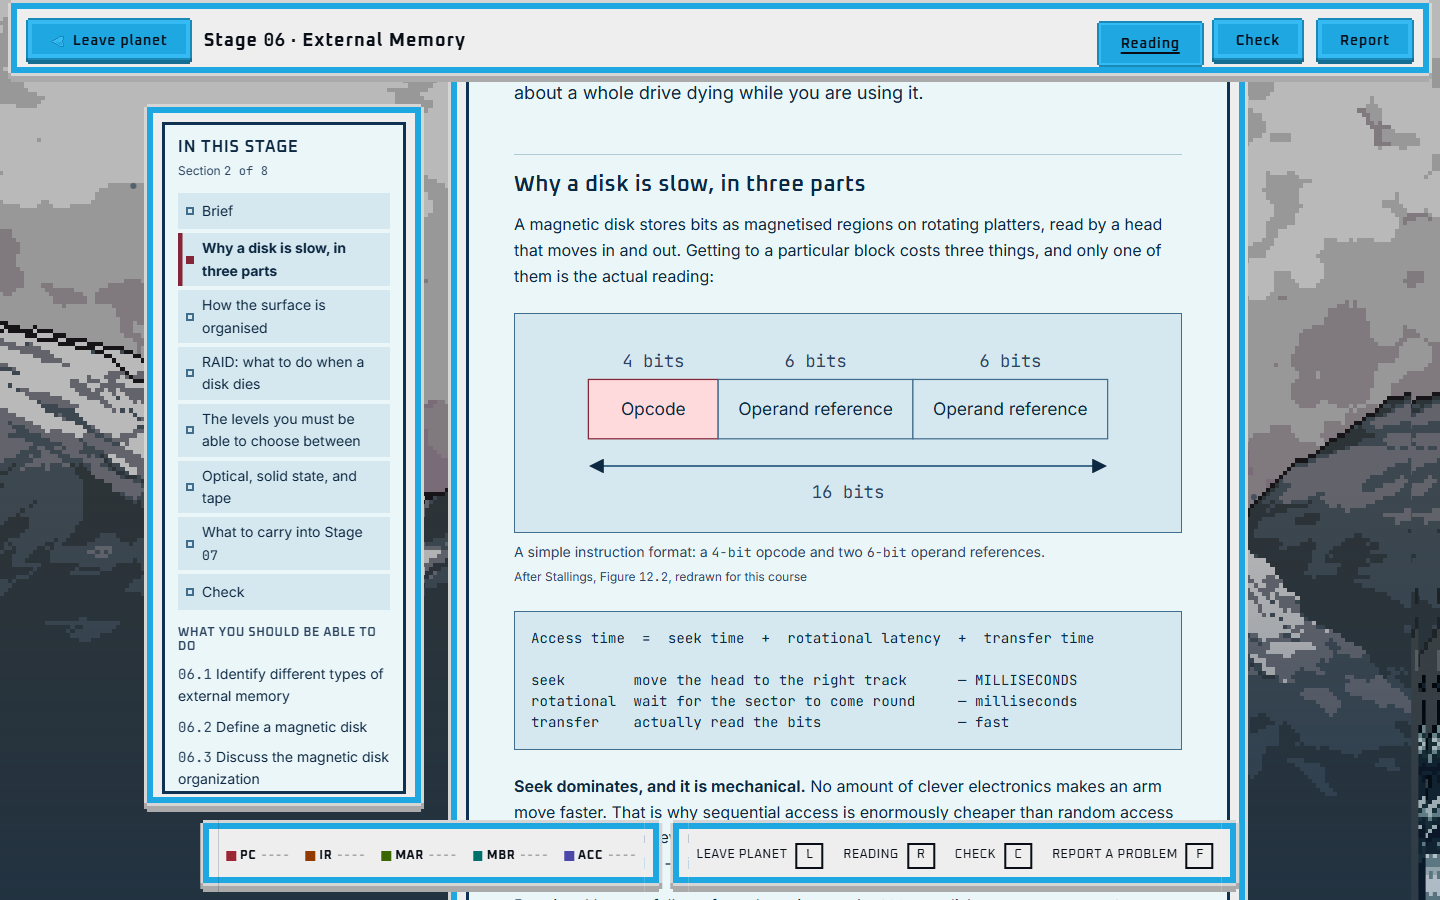
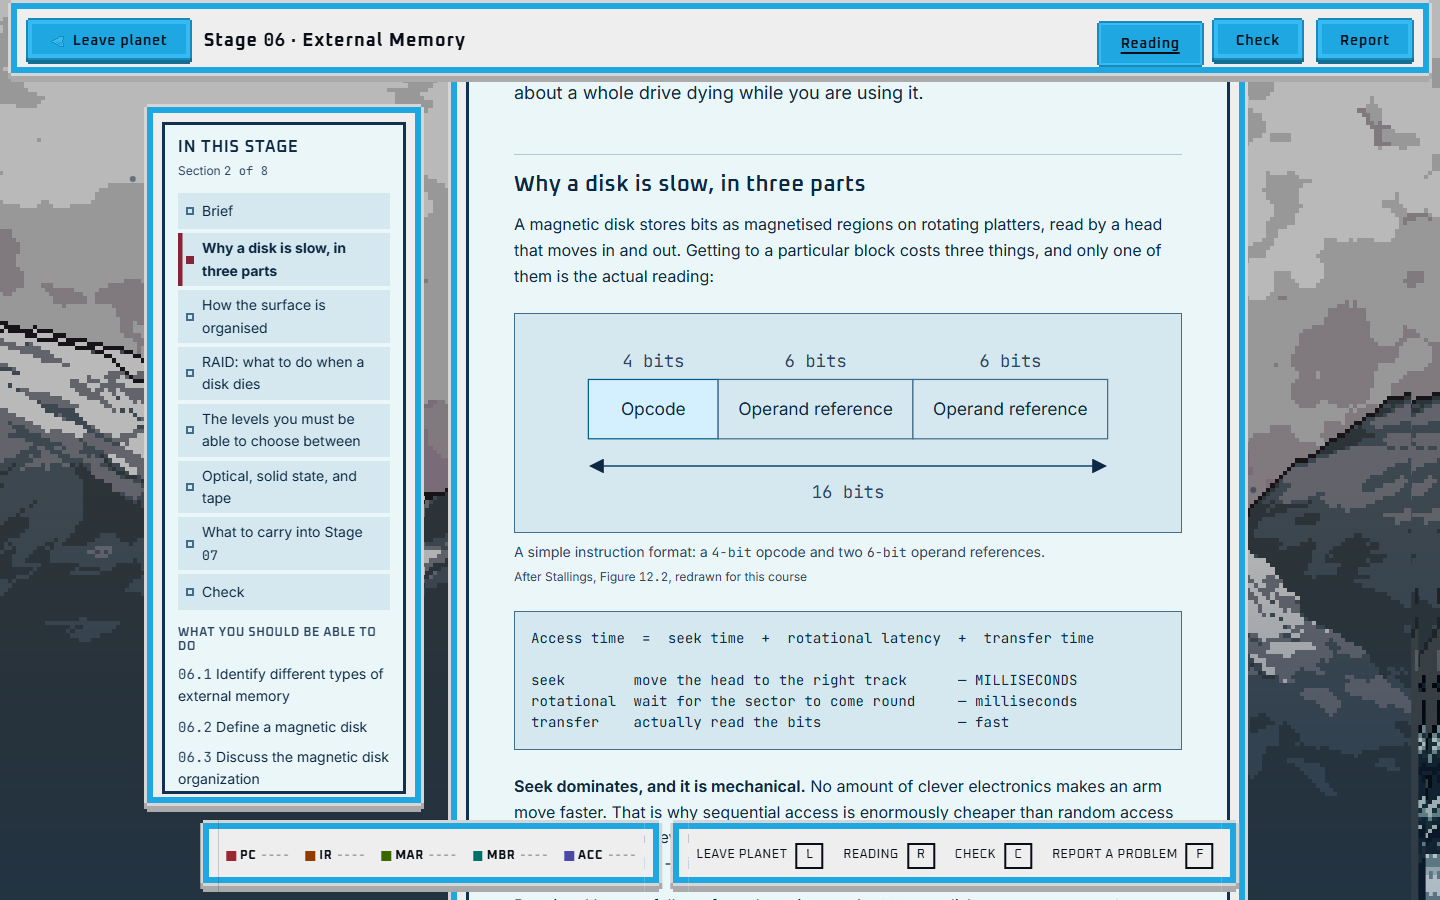
fix(figures): emphasis is a fixed hue, and the paper and /items gates cover figures
A figure's emphasis used the accent, which is each student's own seeded hue:
on a question's paper the same figure would differ from student to student.
It now uses the info pair, one hue in every realm and theme. The stage-check
spec varies the accent hue and fails on the old CSS (watched red).

Gates: a question's figure on the paper (all seven biomes, identical across
two biomes and two students, readable at 380, no key in its payload) and the
/items review with a figure (Approve and publish waits; three themes). Full
specs of console-content, console-item-review, console-items, web-stage and
web-stage-check: 276 passed at 1440 and 380, one contrast run re-run alone
after a load timeout. Captures opened at both widths.

Changed region(s): [[0.4062, 0.4044, 0.5, 0.4978]]

diff --git a/design/specs/console-item-review.spec.ts b/design/specs/console-item-review.spec.ts
@@ -1,6 +1,10 @@
 import { test, expect } from "@playwright/test";
 import type { APIRequestContext, Page } from "@playwright/test";
 import { createHmac } from "node:crypto";
+import {
+  clippedElements, contrastFailures, horizontalOverflow, offTokenStyles, recordMotion, recordedMotion,
+  setTheme, THEMES, unreachableByKeyboard,
+} from "./_gate";
 
 /**
  * `/items` — the review queue, which is how the seeded bank reaches students.
@@ -254,5 +258,86 @@ test.describe("the item review queue", () => {
     } finally {
       await retire(request, made);
     }
+  });
+});
+
+/* ======================================================================
+ * A question that needs a figure (6 Oct 2026; docs/FIGURES-AND-AUDIO.md and
+ * design/templates/console/content-figure/SPEC.md). A fresh review item's
+ * preview is given the real seeded figure (stage 10's, a draft), as the API
+ * returns it for an item that names one; the figure approval is intercepted,
+ * because a spec must never serve a drawing to students. The API's half,
+ * including the refusal to go live, is services/api/test/figures.spec.ts.
+ * ==================================================================== */
+test.describe("a question that needs a figure", () => {
+  test.describe.configure({ mode: "serial" });
+  const FIG = "10-instruction-format";
+
+  async function openWithFigure(page: Page, request: APIRequestContext) {
+    const [made] = await makeReviewItems(request, 1);
+    const content = await request.get(`${API_URL}/api/v1/console/content/10`, { headers: { authorization: `Bearer ${TEACHER}` } });
+    const real = ((await content.json()) as { figures: Array<Record<string, unknown>> }).figures.find((f) => f.id === FIG)!;
+    let approved = false;
+    const posts: unknown[] = [];
+    await page.route(/\/api\/v1\/console\/figures\/[^/]+\/approve$/, async (route) => {
+      posts.push(route.request().postDataJSON());
+      approved = true;
+      await route.fulfill({ json: { ok: true, alreadyApproved: false } });
+    });
+    await page.route(new RegExp(`/api/v1/console/items/${made!.id}/preview`), async (route) => {
+      const res = await route.fetch();
+      const json = (await res.json()) as Record<string, unknown>;
+      json.figure = approved ? { ...real, status: "approved", served: true, reviewer: "Prof. Amalia R. Bontuyan" } : real;
+      await route.fulfill({ response: res, json });
+    });
+    await openReviewQueue(page);
+    await page.getByRole("button", { name: `Review ${made!.slug}` }).click();
+    const dialog = page.getByRole("dialog");
+    await expect(dialog.locator("[data-item-figure]")).toBeVisible({ timeout: 15_000 });
+    return { made: made!, real, posts, dialog };
+  }
+
+  test("the figure sits under the stem, and Approve and publish waits for it", async ({ page, request }) => {
+    const { made, real, posts, dialog } = await openWithFigure(page, request);
+    const card = dialog.locator(`[data-figure-card="${FIG}"]`);
+    await expect(card.getByRole("img", { name: "A simple 16-bit instruction format" })).toBeVisible();
+    await expect(card).toContainText("No student sees it until you approve it.");
+    const publish = dialog.getByRole("button", { name: "Approve and publish" });
+    await expect(publish).toBeDisabled();
+    await expect(dialog.locator("[data-figure-blocks]")).toContainText(`Approve figure ${FIG} first`);
+
+    await card.getByRole("button", { name: `Approve figure ${FIG}` }).click();
+    // Found here, 6 Oct 2026: a Radix modal marks everything outside it aria-hidden, the
+    // toaster included, so a toast raised under a dialog is on screen but not announced
+    // (NEXT-SESSION 0zb). Seen on screen, then, not by role.
+    await expect(page.locator("[data-toaster]").getByText(`Figure ${FIG} approved`)).toBeVisible();
+    expect(posts).toEqual([{ hash: real.hash }]);
+    await expect(publish).toBeEnabled();
+    await expect(dialog.locator("[data-figure-blocks]")).toHaveCount(0);
+    await retire(request, [made]);
+  });
+
+  test("the gate on the dialog with a figure: clipped, keyboard, contrast on three themes, tokens, motion", async ({ page, request }, info) => {
+    test.setTimeout(240_000);
+    const { made } = await openWithFigure(page, request);
+    expect(await clippedElements(page, "[role=dialog]"), "dialog").toEqual([]);
+    expect(await horizontalOverflow(page), "dialog").toBeLessThanOrEqual(0);
+    expect(await unreachableByKeyboard(page, "[role=dialog]"), "dialog").toEqual([]);
+    expect(await offTokenStyles(page, "[role=dialog]"), "dialog").toEqual([]);
+    for (const theme of THEMES) {
+      await setTheme(page, theme);
+      expect(await contrastFailures(page, "[role=dialog]"), `${theme}: dialog`).toEqual([]);
+    }
+    await page.locator("[role=dialog] [data-item-figure]").scrollIntoViewIfNeeded();
+    await page.screenshot({ path: `design/templates/console/content-figure/current-items${info.project.name === "desktop-1440" ? "" : "-380"}.png` });
+    await retire(request, [made]);
+  });
+
+  test("under reduced motion the figure arrives with nothing moving", async ({ page, request }) => {
+    await recordMotion(page);
+    await page.emulateMedia({ reducedMotion: "reduce" });
+    const { made } = await openWithFigure(page, request);
+    expect((await recordedMotion(page)).filter((m) => m.ms > 1 && /fg-|fig/.test(m.on))).toEqual([]);
+    await retire(request, [made]);
   });
 });

diff --git a/design/specs/web-stage-check.spec.ts b/design/specs/web-stage-check.spec.ts
@@ -1,4 +1,5 @@
 import { test, expect } from "@playwright/test";
+import { readFileSync } from "node:fs";
 import type { Page, TestInfo } from "@playwright/test";
 import type { ResolvedItem } from "../../services/api/src/engine/resolve.ts";
 import {
@@ -609,3 +610,85 @@ test.describe("the Register Bar and the paper", () => {
 function escape(s: string): string {
   return s.replace(/[.*+?^${}()|[\]\\]/g, "\\$&");
 }
+
+/* ============================================ a question's figure (6 Oct 2026) */
+/*
+ * design/templates/web/stage-figure/SPEC.md, on the paper. The figure is the
+ * seeded one, served on question 1 through the API's own serializer as an
+ * approved drawing (services/api/test/figures.spec.ts: a question cannot be
+ * live with an unapproved figure, so a student never meets one).
+ */
+test.describe("a question's figure, on the neutral paper", () => {
+  const SVG = readFileSync(`${process.cwd()}/content/figures/10-instruction-format.svg`, "utf8");
+  const TITLE = "A simple 16-bit instruction format";
+  const withFigure = (): PaperOptions => ({ figures: new Map([[q(1).itemId, { title: TITLE, svg: SVG }]]) });
+  const figure = (page: Page) => page.locator("[data-runner=sitting] .check-figure");
+
+  test("gate 1-3, 5: nothing clipped, no sideways scroll, keyboard reachable, tokens rendered", async ({ page }) => {
+    await open(page, withFigure());
+    await expect(figure(page)).toBeVisible();
+    expect(await clippedElements(page, ROUTE), "figure").toEqual([]);
+    expect(await horizontalOverflow(page), "figure").toBeLessThanOrEqual(0);
+    expect(await unreachableByKeyboard(page, "main"), "figure").toEqual([]);
+    expect(await offTokenStyles(page, ROUTE), "figure").toEqual([]);
+  });
+
+  test("gate 4: AA contrast, computed, in all seven biomes, the drawing's text included", async ({ browser }, info) => {
+    test.setTimeout(240_000);
+    for (const biome of BIOMES) {
+      const ctx = await browser.newContext({ viewport: info.project.use.viewport!, baseURL: info.project.use.baseURL });
+      const p = await ctx.newPage();
+      await forcePlanetBiome(p, STAGE, biome);
+      await open(p, withFigure());
+      expect(await contrastFailures(p, ROUTE), "figure " + biome).toEqual([]);
+      await ctx.close();
+    }
+  });
+
+  test("gate 6: under reduced motion nothing on the figure moves", async ({ page }) => {
+    await recordMotion(page);
+    await page.emulateMedia({ reducedMotion: "reduce" });
+    await open(page, withFigure());
+    expect((await recordedMotion(page)).filter((m) => m.ms > 1 && /fig/.test(m.on))).toEqual([]);
+  });
+
+  test("one named image under the stem, the same in two biomes for two students, and readable at 380", async ({ browser }, info) => {
+    const looks: string[][] = [];
+    for (const [biome, hue] of [["jungle", "30"], ["cave", "250"]] as const) {
+      const ctx = await browser.newContext({ viewport: info.project.use.viewport!, baseURL: info.project.use.baseURL });
+      const p = await ctx.newPage();
+      await forcePlanetBiome(p, STAGE, biome);
+      await open(p, withFigure());
+      // A different student: a different seeded accent hue. The figure must not care.
+      await p.evaluate((h) => document.documentElement.style.setProperty("--accent-hue", h), hue);
+      await p.waitForTimeout(400);
+      await expect(figure(p).getByRole("img", { name: TITLE })).toBeVisible();
+      await expect(figure(p).locator("svg")).toHaveAttribute("aria-hidden", "true");
+      looks.push(await figure(p).evaluate((root) => [root, ...root.querySelectorAll("*")].map((e) => {
+        const cs = getComputedStyle(e);
+        return [e.tagName, cs.color, cs.fill, cs.stroke, cs.backgroundColor].join(" ");
+      })));
+      const smallest = await figure(p).locator("svg").evaluate((svg) => {
+        const scale = svg.getBoundingClientRect().width / (svg as SVGSVGElement).viewBox.baseVal.width;
+        return Math.min(...[...svg.querySelectorAll("text")].map((t) => Number(t.getAttribute("font-size")) * scale));
+      });
+      expect(smallest).toBeGreaterThanOrEqual(9);
+      await ctx.close();
+    }
+    expect(looks[1], "the figure changed with the planet").toEqual(looks[0]);
+  });
+
+  test("the figure carries no part of the key", async ({ page }) => {
+    const served = await open(page, withFigure());
+    const start = served.bodies.find((b) => /\/attempts$/.test(b.url))!;
+    const paper = JSON.parse(start.body) as { items: Array<Record<string, unknown>> };
+    expect(Object.keys(paper.items[0]!.figure as object).sort()).toEqual(["svg", "title"]);
+    expect(JSON.stringify(paper.items[0])).not.toMatch(/correctValue|correctIndex|rationale/);
+  });
+
+  test("captures: a question with its figure, at both widths", async ({ page }, info) => {
+    await open(page, withFigure());
+    await page.waitForTimeout(300);
+    await page.screenshot({ path: "design/templates/web/stage-figure/current-check" + (wide(info) ? "" : "-380") + ".png" });
+  });
+});

diff --git a/packages/tokens/figure.css b/packages/tokens/figure.css
@@ -37,6 +37,10 @@
 .fig-svg .fig-line { fill: none; stroke: var(--line-strong); }
 .fig-svg .fig-box { fill: var(--surface-2); stroke: var(--line-strong); }
 .fig-svg .fig-fill { fill: var(--surface-3); stroke: none; }
-.fig-svg .fig-accent { fill: var(--accent-muted); stroke: var(--accent); }
-.fig-svg .fig-accent-line { fill: none; stroke: var(--accent); }
+/* Emphasis is NOT the accent. The accent is each student's own seeded hue,
+   and it may mark only their own place (apps/web/CLAUDE.md); a figure on a
+   question's paper must be identical for everyone (WEB-REMAKE.md §4). The
+   info pair is one fixed hue in every realm and theme. */
+.fig-svg .fig-accent { fill: var(--info-bg); stroke: var(--info); }
+.fig-svg .fig-accent-line { fill: none; stroke: var(--info); }
 .fig-svg .fig-mono { font-family: var(--font-mono); }

diff --git a/design/specs/_stage-check-fixture.ts b/design/specs/_stage-check-fixture.ts
@@ -166,6 +166,8 @@ export interface PaperOptions {
   failRecord?: (ordinal: number) => boolean;
   /** Refuse the submit. */
   failSubmit?: boolean;
+  /** Approved figures by item id (6 Oct 2026), served through the API's own serializer. */
+  figures?: Map<string, { title: string; svg: string }>;
 }
 
 export interface Served {
@@ -218,7 +220,7 @@ export async function servePaper(page: Page, items: ResolvedItem[], opts: PaperO
       attemptNo: 1,
       resumed: recorded.length > 0,
       totalItems: items.length,
-      items: toStudentPaper(items),
+      items: toStudentPaper(items, opts.figures),
       answered: toStudentRecorded(items, recorded, reveal),
     });
   });
